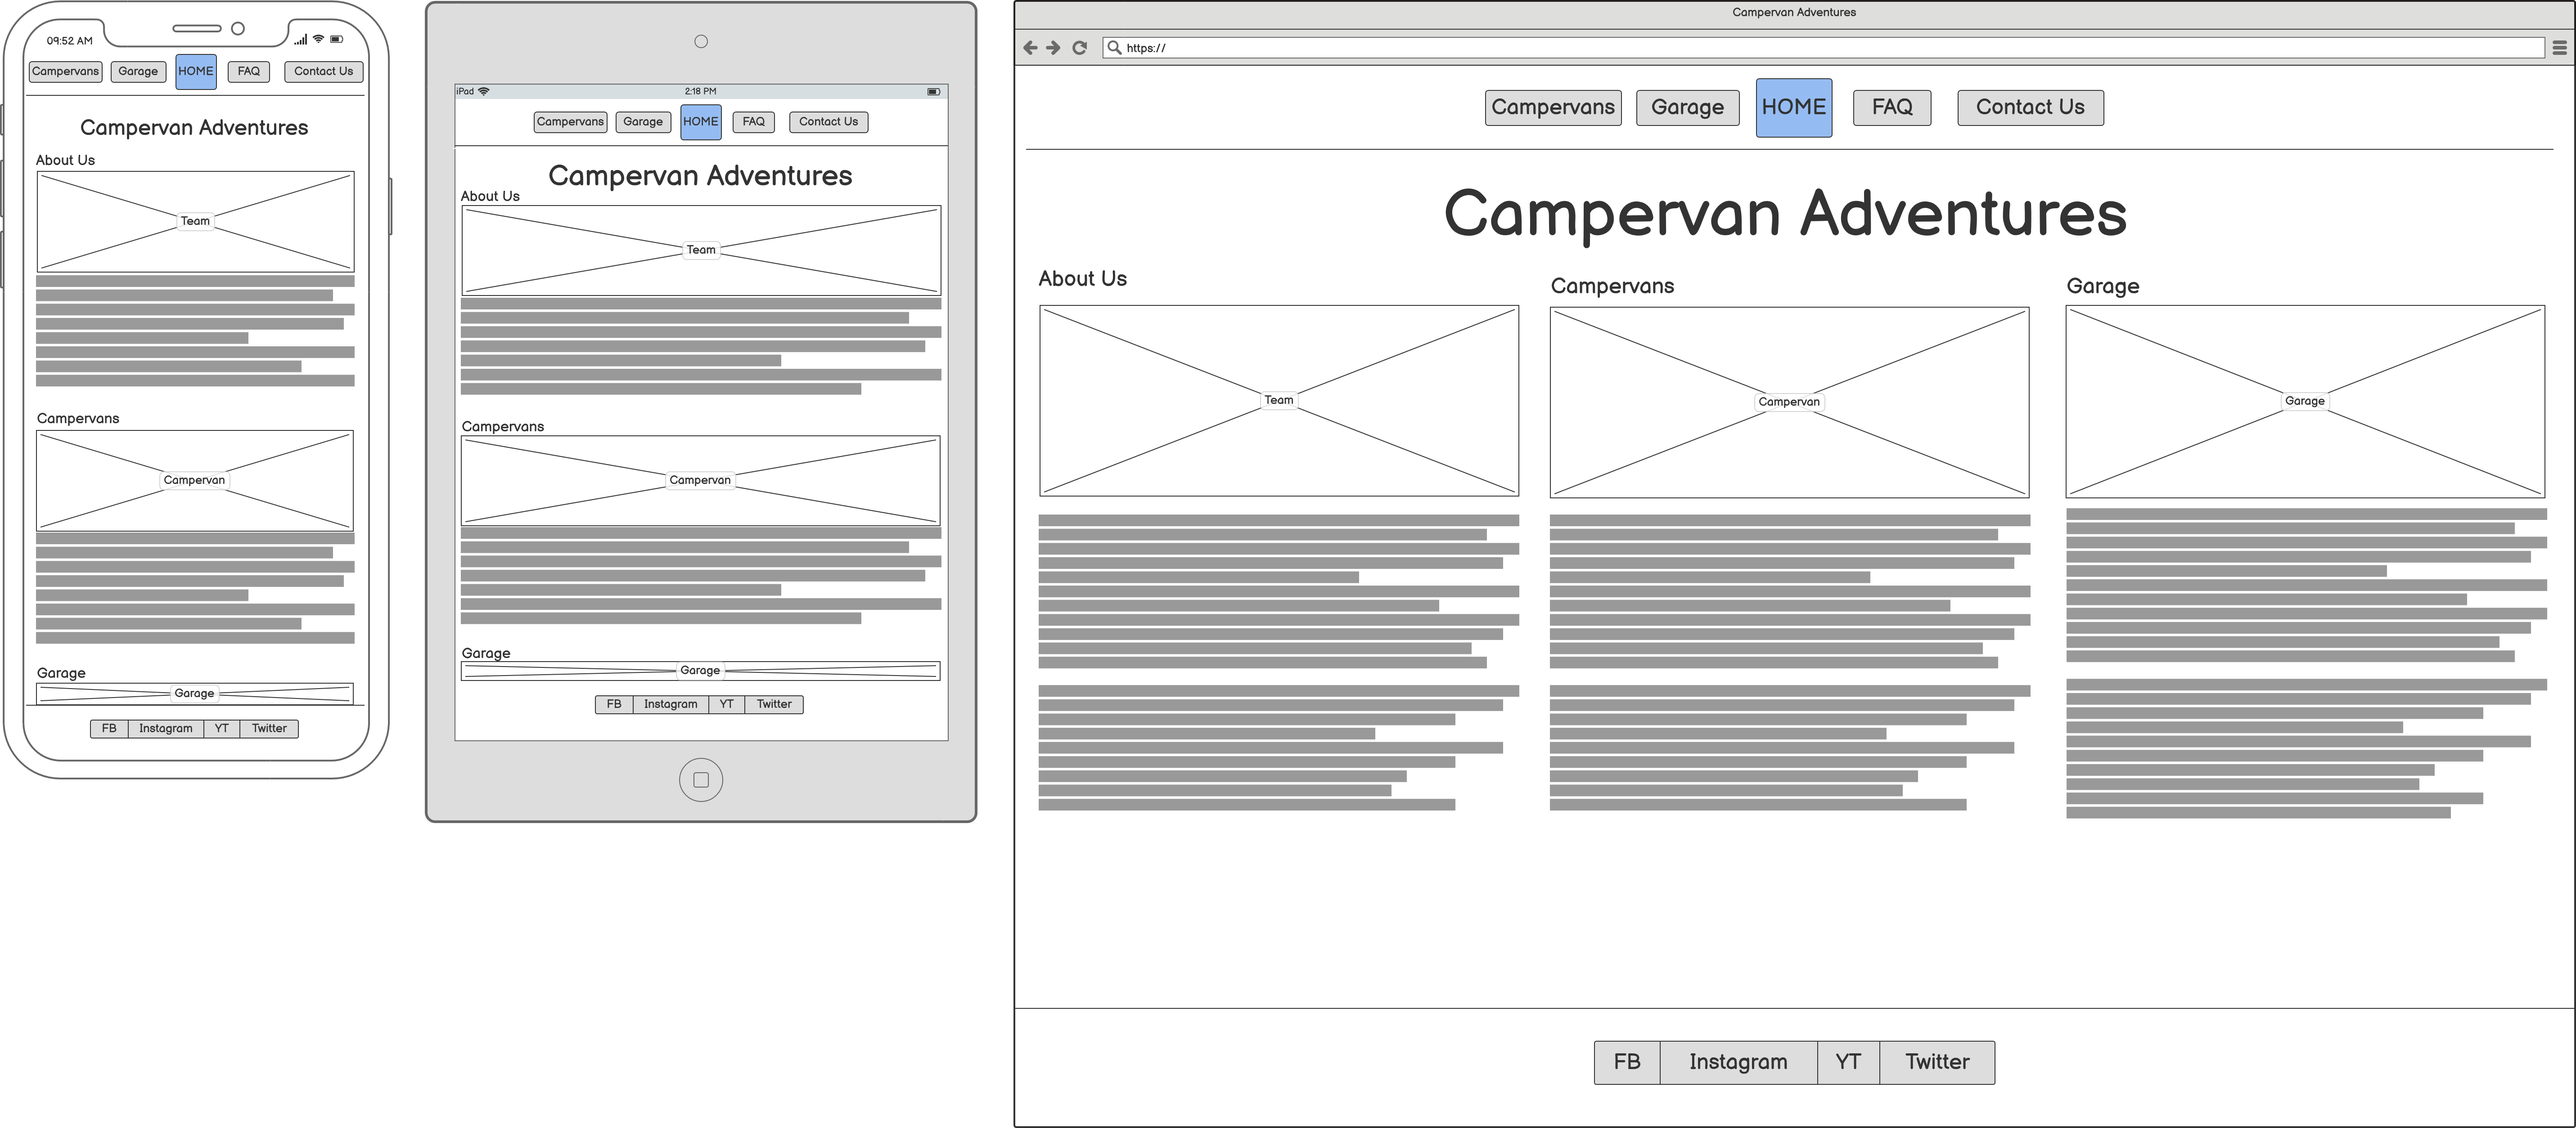
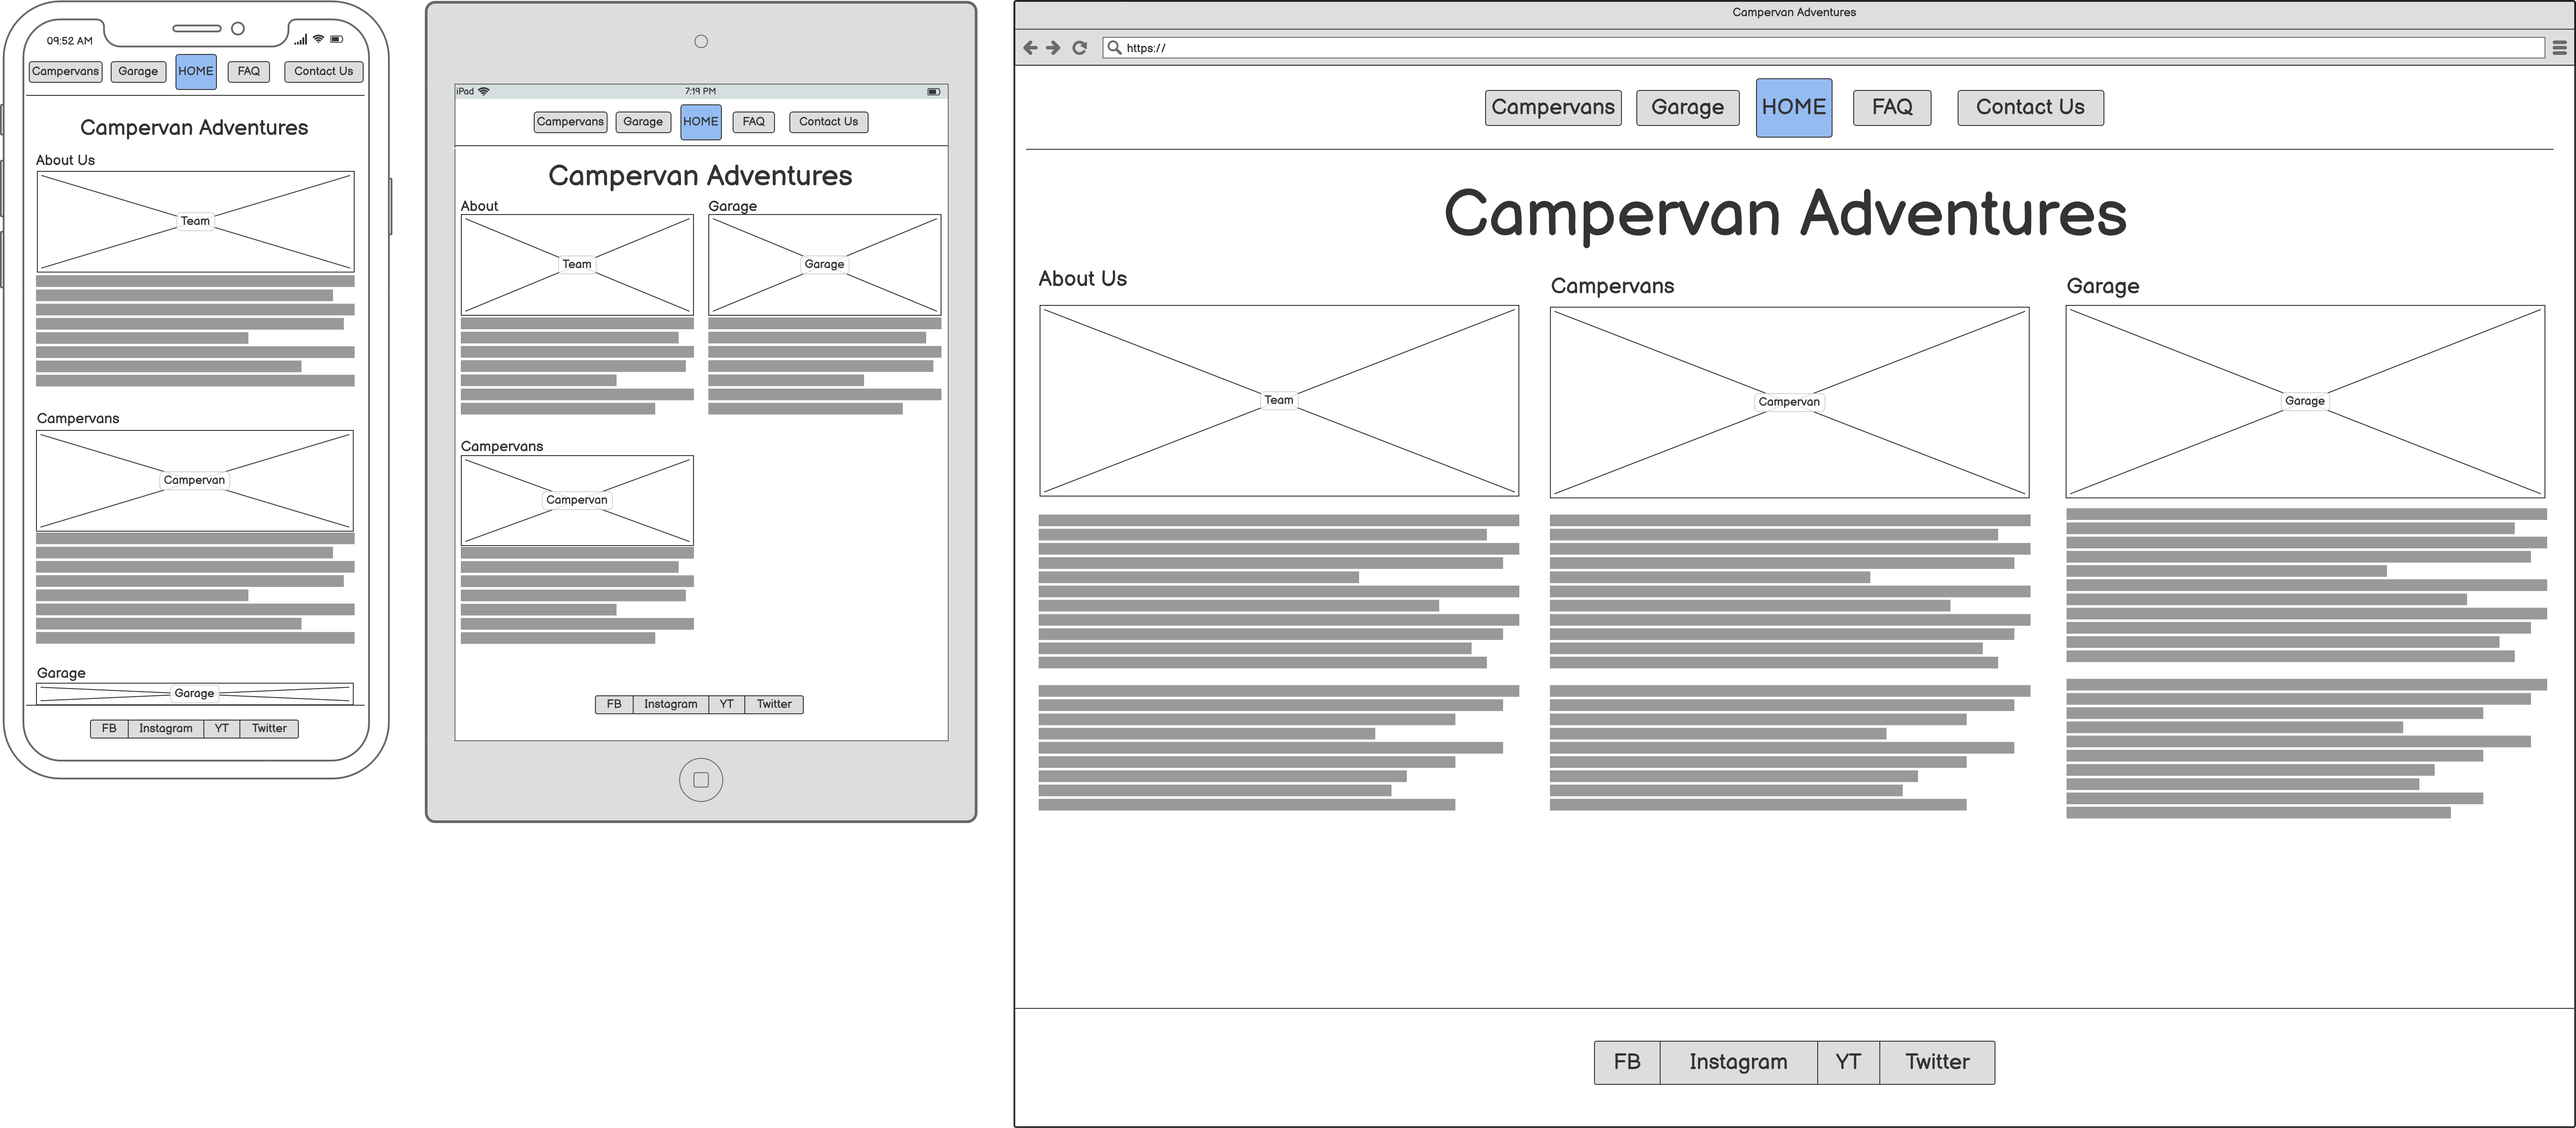
feat: Update wireframe-home and add media queries to style.css

diff --git a/assets/css/style.css b/assets/css/style.css
@@ -25,6 +25,7 @@ footer {
     text-align: center;
     background-color: #f8f9fa;
     padding-top: 1%;
+    margin-top: 0.5em;
 }
 
 footer ul {
@@ -83,7 +84,7 @@ p {
     margin: 0.25em 2px 0.25em;
 }
 
-.welcome img {
+.intro img {
     width: 100%;
     height: 100px;
     object-fit: cover;
@@ -100,3 +101,32 @@ p {
     margin-bottom: -1.5em;
 
 }
+
+/* media queries */
+
+/* large screen */
+@media screen and (max-width: 99999px) {
+    .intro {
+        column-count: 3;
+    }
+}
+
+/* medium screen */
+@media screen and (max-width: 1080px) {
+    .intro {
+        column-count: 2;
+    }
+    h2, img {
+        break-after: avoid-column;
+    }
+}
+
+/* smartphone screen */
+@media screen and (max-width: 575px) {
+    .intro {
+        column-count: 1;
+    }
+}
+
+
+

diff --git a/index.html b/index.html
@@ -59,13 +59,13 @@
         <!-- end of Bootstrap navigation -->
     </header>
 
-    <section class="welcome">
         <p class="accent">
             ___
         </p>
         <h1>
             Campervan Adventures
         </h1>
+    <section class="intro">
         <h2>
             About Us
         </h2>
@@ -87,7 +87,6 @@
         <p>
             All our vehicles are carefully taken care of by our professional Garage crew. They may also be able to help if you need an upgrade to your own home on wheels!
         </p>
-
     </section>
 
     <footer>
